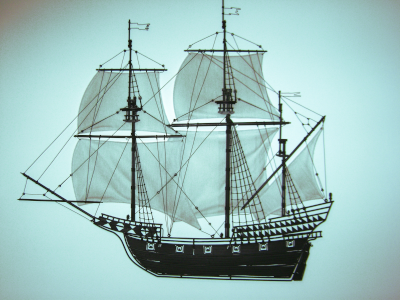
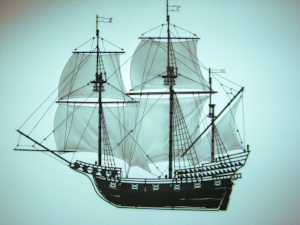
fix cropped categories pictures by flexboxes

diff --git a/assets/css/style.css b/assets/css/style.css
@@ -145,19 +145,19 @@ h1, h3 {
 }
 
 .flex-container > div {
-	height: 40vh;
 	overflow: hidden;
 }
 
 .catpic {
-	flex: 40%;
+	flex: 50%;
 	display: flex;
 	justify-content: center;
 	align-items: center;
+	padding: 2%;
 }
 
 .catdesc {
-	flex: 60%;
+	flex: 50%;
 	display: flex;
 	flex-direction: column;
 	align-items: center;
@@ -167,10 +167,11 @@ h1, h3 {
 }
 
 .actualpic {
-	width: auto;
-	height: 30vh;
-	box-shadow: 2px 2px 8px grey;
+	max-width: 100%;
+	height: auto;
+	box-shadow: 2px 2px 8px grey;	
 	border-radius: 20%;
+	padding: 2%;
 }
 
 .materialsdiv {
@@ -190,7 +191,7 @@ h1, h3 {
 
 /* media queries*/
 
-@media (max-width: 768px) {
+@media (max-width: 992px) {
   .headerContent {
     margin: 3% auto;
     text-align: center;
@@ -253,6 +254,10 @@ h1, h3 {
     flex: 100%;
   }
 
+.catdesc h3 {
+	margin-top: 5%;
+}
+	
 	.revertAfter {
 		order: 2;
 	}
